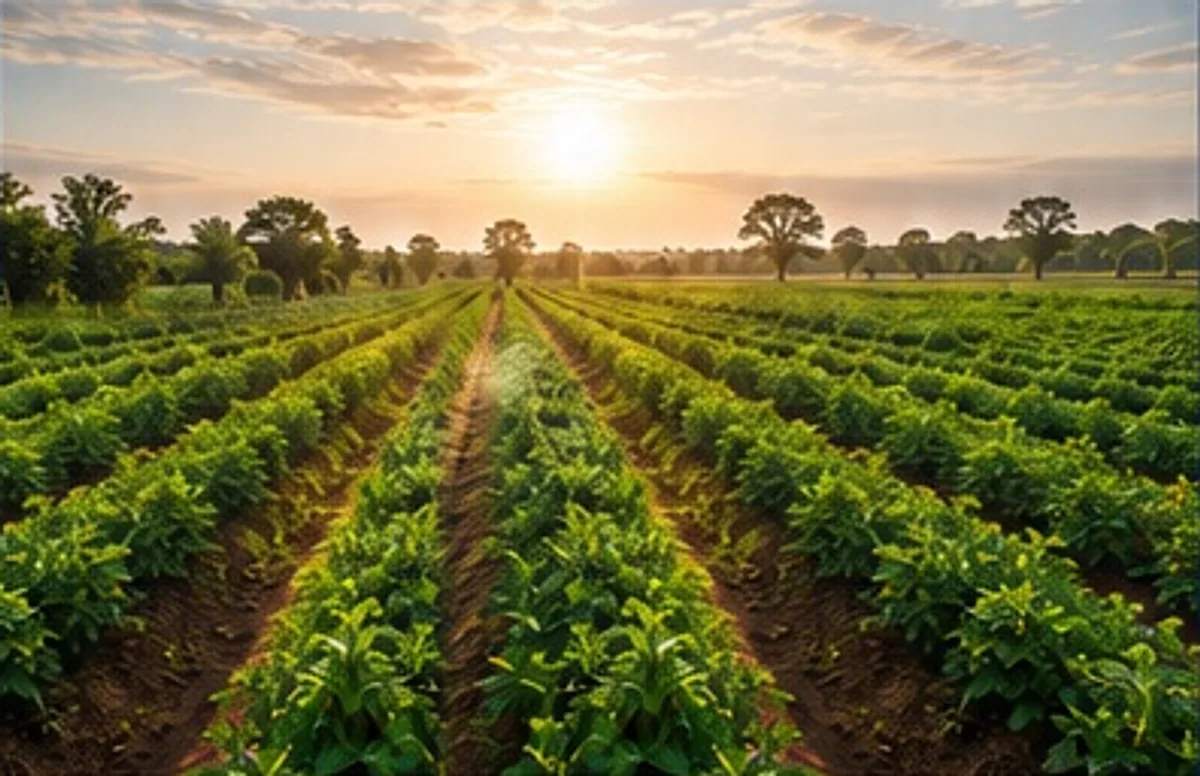
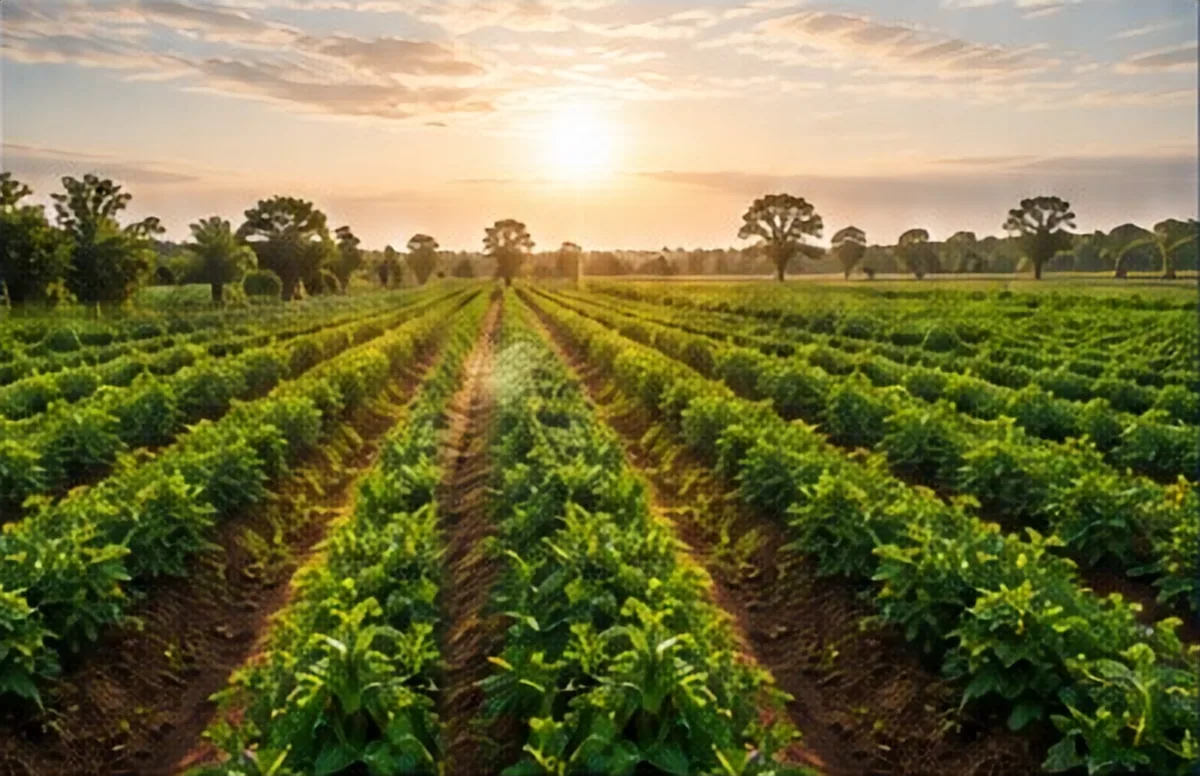
Finalise photography, mobile grid, visual QA and test report
- Use ESRGAN upscales for farmland and handshake photos
- Two-column product grid on phones from 360px
- Add visual comparison and breakpoint screenshots in docs/visual-qa
- Add test report with unit, e2e, axe and Lighthouse results

Claude-Session: https://claude.ai/code/session_01JYH75c8qDP9goeQHVbhYKx

diff --git a/docs/TEST-REPORT.md b/docs/TEST-REPORT.md
@@ -1,0 +1,146 @@
+# Test report
+
+Run in the build container (Linux, Node 22, Chromium 1243 via Playwright 1.63) against a
+production build (`next build && next start`).
+
+## Summary
+
+| Check | Command | Result |
+|---|---|---|
+| Lint | `npm run lint` | Pass, 0 problems |
+| Types | `npm run typecheck` | Pass |
+| Production build | `npm run build` | Pass. 39 routes, 34 prerendered; ~111 kB first-load JS on most pages |
+| Unit tests | `npm test` | **17/17 pass** |
+| End-to-end tests | `npm run test:e2e` | **50/50 pass** (desktop Chromium + Pixel 7 emulation) |
+| Accessibility (axe, WCAG 2.2 AA tags) | in e2e | 0 serious/critical violations on 14 key pages |
+| Lighthouse | see below | Accessibility 100, Best practices 100, SEO 100 (indexing on) |
+
+Firefox and WebKit are not installed in this environment, so cross-browser runs were **not**
+performed. Run `npx playwright install firefox webkit` and add the projects to
+`playwright.config.ts` to cover them.
+
+## Unit tests (Vitest)
+
+- **Schemas:**
+  - valid contact, partnership and quote inquiries are accepted;
+  - consent is required;
+  - email and phone formats are checked;
+  - input is trimmed and control characters stripped;
+  - quotes need product lines, and unknown products are rejected;
+  - the honeypot and length limits work.
+- **Rate limiter:** blocks after the limit, resets after the window, and counts each key separately.
+- **`POST /api/inquiries`:**
+  - **503 `not_configured` with no delivery channel (no fake success);**
+  - 201 with an `LMZ-YYMMDD-XXXXXX` reference when a channel is configured, and the record is
+    actually written;
+  - 422 with errors for each field;
+  - 400 for the honeypot and too-fast submissions;
+  - 403 cross-origin, 415 non-JSON, 413 oversized;
+  - 429 with `Retry-After`;
+  - 502 when every channel fails.
+
+## End-to-end tests (Playwright)
+
+- **Homepage:**
+  - the eight sections appear in the reference order, and the six products in the reference order;
+  - it uses the official logo files, navy and green values and both fonts;
+  - there is no horizontal overflow at 1920, 1440, 1280, 1024, 768, 390, 375 and 320 px;
+  - the hero buttons link to the right pages.
+- **Navigation:**
+  - the Products dropdown opens with Enter and Arrow keys, closes with Escape and returns focus;
+  - opening it by hover and then clicking keeps it open, and the menu links work;
+  - the active link is marked;
+  - the skip link works;
+  - every internal link on the homepage and in the footer returns 200;
+  - the custom 404 page works.
+- **Mobile (Pixel 7):**
+  - the hamburger menu opens, locks page scroll, expands the product categories, closes with
+    Escape and navigates;
+  - buttons and inputs are at least 40 px tall;
+  - there is no overflow.
+- **Catalogue:**
+  - search filters the product count;
+  - an empty state appears when nothing matches, and clearing resets the search;
+  - category routes filter correctly.
+- **Product pages:**
+  - no invented prices or specifications;
+  - "Request a quote" preselects the product, and "Wholesale inquiry" preselects the subject and product.
+- **Forms:**
+  - accessible error summary with focus, `aria-invalid` and messages beside each field;
+  - with the real (unconfigured) backend the form shows **"Your inquiry was not sent"**;
+  - success appears only with a server reference;
+  - the submit button is disabled while sending;
+  - server field errors are shown beside the right fields;
+  - partnership product choices allow several selections;
+  - quote lines can be added and removed.
+- **FAQ** accordion opens and closes.
+- **SEO and security:**
+  - unique titles, descriptions, canonical URLs and Open Graph images on every page, and one `h1` per page;
+  - Organization JSON-LD;
+  - staging sends `noindex`, robots.txt says `Disallow: /`, and the sitemap leaves out drafts;
+  - draft articles return 404 in production;
+  - CSP, `nosniff`, Referrer-Policy and no `X-Powered-By`;
+  - every image has alt text, the hero image is not lazy-loaded and below-the-fold images are.
+
+## Lighthouse 12 (mobile emulation, simulated slow 4G)
+
+Production build with `SITE_INDEXING=true`, as the live site would run:
+
+| Page | Performance | Accessibility | Best practices | SEO | LCP | CLS | TBT |
+|---|---|---|---|---|---|---|---|
+| `/` | 91 | 100 | 100 | 100 | 3.4 s | 0 | 120 ms |
+| `/become-a-partner` | 95 | 100 | 100 | 100 | 2.7 s | 0 | 120 ms |
+
+Staging build (indexing off; SEO is 69 only because `noindex` is intentional):
+
+| Page | Performance | Accessibility | Best practices | LCP | CLS |
+|---|---|---|---|---|---|
+| `/products` | 95 | 100 | 100 | 2.8 s | 0 |
+| `/products/cassava-flour` | 97 | 100 | 100 | 2.5 s | 0 |
+
+Notes:
+
+- **Largest Contentful Paint.** The 2.5 s target is not met on the homepage under Lighthouse's
+  simulated slow-4G mobile profile (3.4 s). The LCP element is the hero photograph, which is
+  already prioritised (`fetchpriority=high`, AVIF/WebP, responsive sizes). On a typical
+  connection it loads far faster. Hosting on a CDN such as Vercel's edge network also lowers
+  time to first byte, which was ~0.5 s on this local server.
+- **Fixes made after earlier runs:**
+  - layout shift from font swapping (0.17 → 0) was removed by moving to `next/font/local`
+    with metric-matched fallbacks;
+  - a CSP report caused by Zod's runtime code generation was removed by enabling `jitless`.
+
+## Visual comparison with the reference (1024 px)
+
+`docs/visual-qa/compare-reference-vs-build.png` places the supplied reference (left) beside the
+build (right). Section heights at 1024 px:
+
+| Section | Reference | Build | Note |
+|---|---:|---:|---|
+| Header | 74 | 75 | |
+| Hero | 367 | 367 | |
+| Trust bar | 94 | 97 | |
+| Featured products | 332 | 344 | |
+| About | 257 | 276 | |
+| Why choose | 170 | 188 | |
+| Partnership banner | 87 | 94 | |
+| Footer | 155 | 207 | |
+| **Total** | **1536** | **1649** | |
+
+The build is ~7% taller. Most of the difference is deliberate:
+
+- **Text size:** the reference sets supporting text at 9–10 px. The build keeps it at
+  11.5–12 px minimum for readability.
+- **Touch targets:** footer links are at least 24 px tall to meet WCAG 2.2's target-size rule.
+- **Colours:** the reference's navy is darker (≈ `#0A1A3A`). The build uses the official
+  `#1A2453`, as the brief requires.
+- **Fonts:** Libre Baskerville is the chosen stand-in for the reference's serif; the headline
+  line breaks match.
+- **Photos:** they come from the reference itself, so composition matches; sharpness is limited
+  by the source resolution (see README → Photography).
+
+Remaining visual differences:
+
+- the reference's social icons are filled glyphs, while the build uses outline glyphs in white circles;
+- the reference's header and footer logos are the mock-up's lettering, while the build uses the
+  official traced logo, as required.
